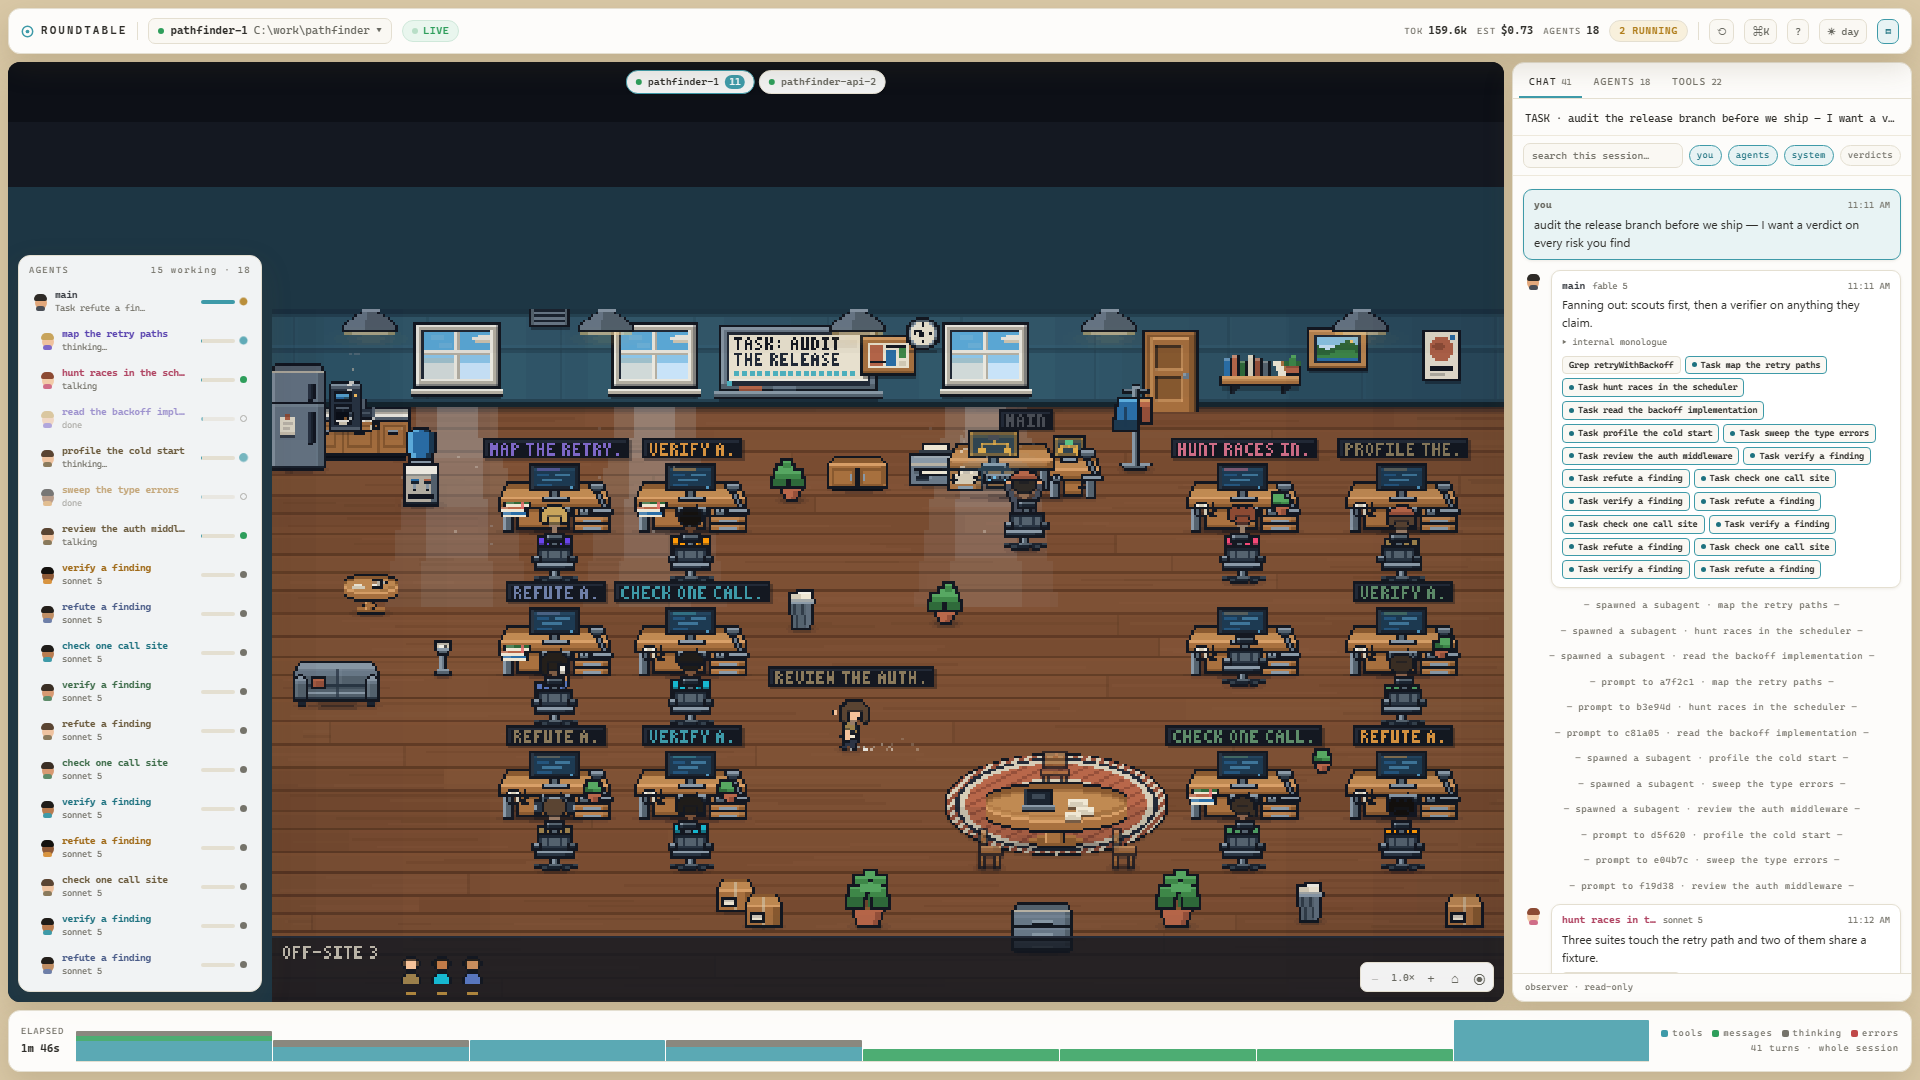
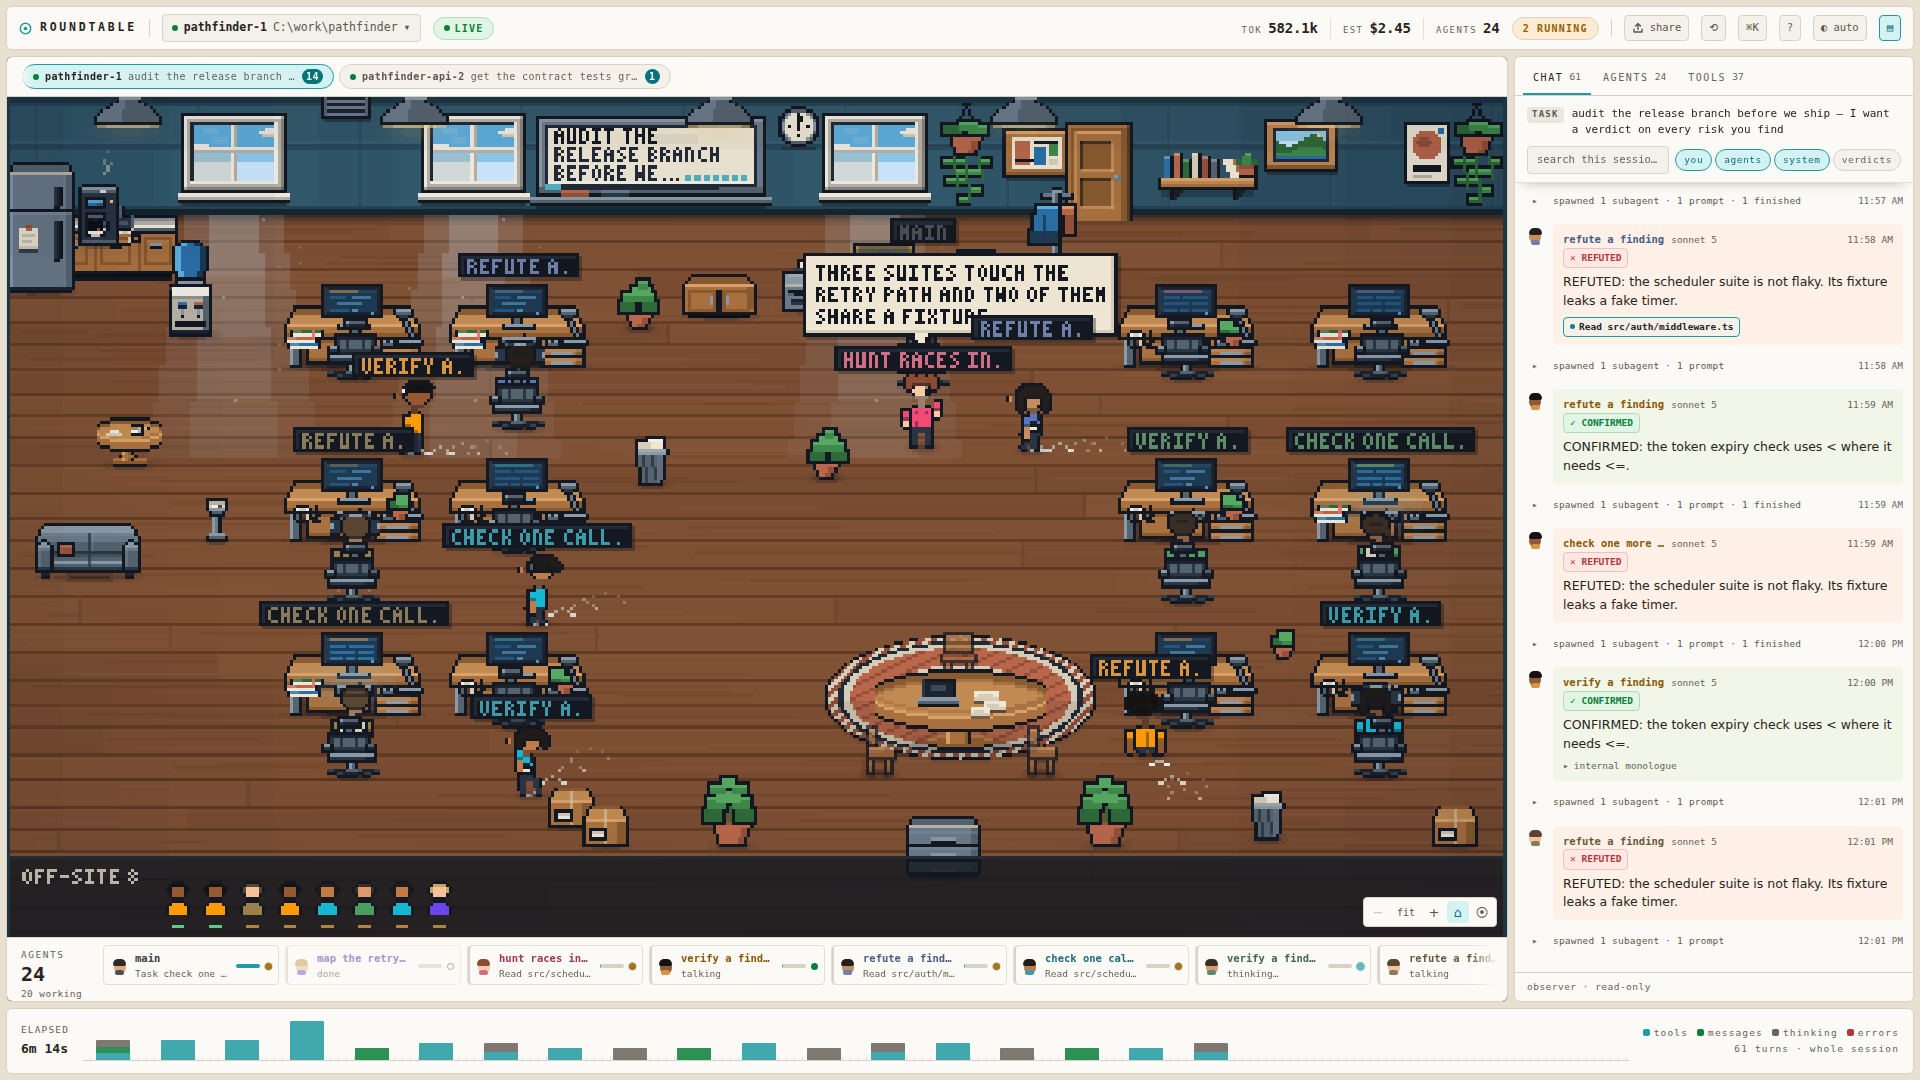
docs: screenshots and a social card of the app as it now looks, pointing at the browser demo
The day and night screenshots showed the old shell. The social card
showed the slow `npx github:` install line; it now carries the demo's
address, which is what a link unfurl should offer someone who has never
heard of this. Adds a Share dialog screenshot, and the launch notes stop
asking for assets that now exist.

diff --git a/docs/launch/checklist.md b/docs/launch/checklist.md
@@ -26,10 +26,11 @@ rerun `--stats` for fresh numbers, change all the drafts at once.
    under Settings → Secrets and variables → Actions, then run *Publish to npm* from the Actions tab
    with the release tag. If it publishes, check `npx claude-roundtable --demo` yourself, and only
    then change the README and the drafts to the short line.
-5. **Make the missing assets:** a terminal screenshot of your own `--stats` output; a screenshot of
-   the Share dialog; a 240×240 thumbnail for Product Hunt; the trailer uploaded to YouTube (Product
-   Hunt takes a link, not a file). Consider re-exporting `media/social-preview.png`: it shows
-   `npx github:Kostakurta8/roundtable --gif`, the slow install path.
+5. **Make the missing assets:** a terminal screenshot of your own `--stats` output; a 240×240
+   thumbnail for Product Hunt; the trailer uploaded to YouTube (Product Hunt takes a link, not a
+   file). The Share dialog is `media/screenshot-share.png`, and `media/social-preview.png` now points
+   at the browser demo — upload it under Settings → Social preview too, because GitHub does not
+   read it from the repo.
 6. **Try Pixel Agents** (`npx pixel-agents`, or the VS Code extension). It is the pixel-office tool
    people will compare Roundtable to, and you will answer that question better having used it.
 7. **Install the plugin fresh** in a Claude Code session: `/plugin marketplace add

diff --git a/README.md b/README.md
@@ -99,7 +99,11 @@ The clip at the top is a staged session. There are three ways to make one of you
 
 The **Share** button in the top bar — or `G`, or the ⌘K palette — renders the session you are
 looking at as a GIF, in the browser, with a live preview. Download it, or copy a caption to post
-with it. **Hide transcript text** draws the same run with none of your words in it.
+with it. **Hide transcript text** draws the same run with none of your words in it. Nothing is
+uploaded: the GIF is made in the tab and saved by your browser, byte for byte the file `--gif`
+writes. It works on the [browser demo](https://kostakurta8.github.io/roundtable/) too.
+
+![the Share dialog: a 20-second GIF of the session rendered in the tab, with its length, the stretch it plays, a switch that hides transcript text, and a note to look before posting](https://raw.githubusercontent.com/Kostakurta8/roundtable/main/media/screenshot-share.png)
 
 ### From the command line
 

diff --git a/docs/launch/product-hunt.md b/docs/launch/product-hunt.md
@@ -50,9 +50,10 @@ size.
 4. **A screenshot of `--stats` output** in a terminal, cropped to the first block and the usage
    line. *To make: run it on your machine; use your numbers, not the README's.*
 5. **`media/screenshot-night.png`**: the same room at night.
-6. **`media/social-preview.png`**: the summary card. Note it shows the `npx github:` install line,
-   which is the slow path (a minute or two); consider re-exporting it with the release tarball
-   line before launch.
+6. **`media/social-preview.png`**: the summary card, with the browser demo's address as its call
+   to action.
+7. **`media/screenshot-share.png`**: the Share dialog — a session rendered to a GIF in the tab,
+   with the "hide transcript text" switch and the look-before-you-post note.
 
 **Video:** Product Hunt takes a YouTube link, not a file. Upload `media/roundtable-trailer.mp4`
 (52 s, captions burned in) to YouTube and paste the link.
